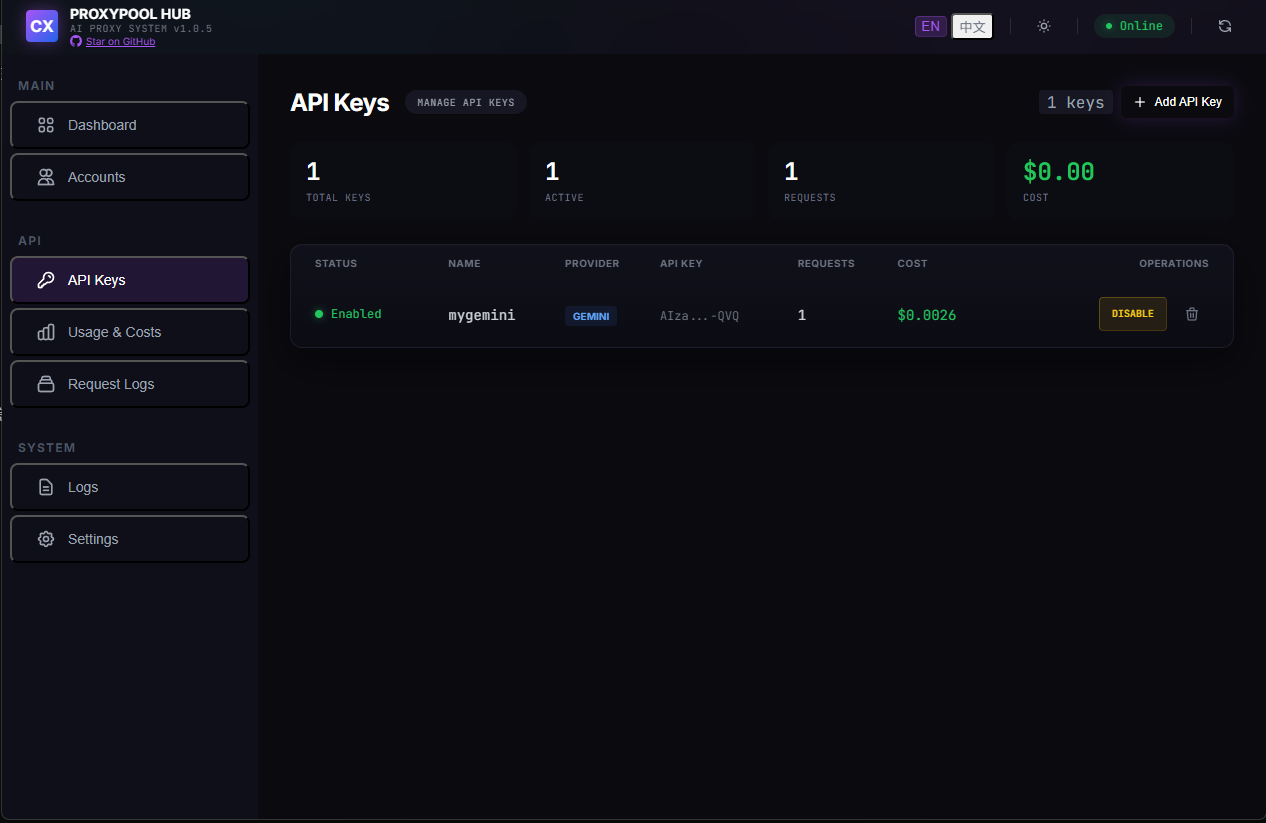
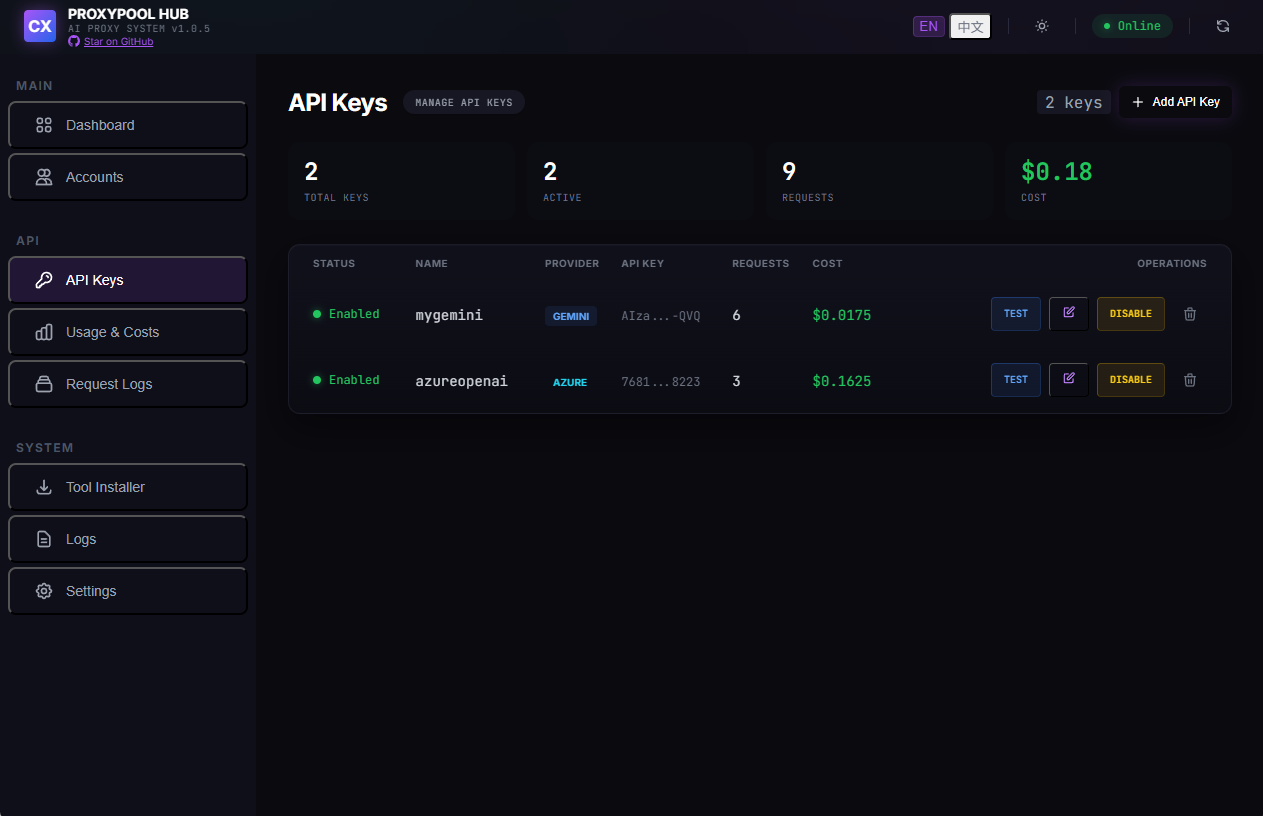
docs

diff --git a/README.md b/README.md
@@ -24,7 +24,8 @@
 ### Account & Key Management
 - **ChatGPT Account Pool** — OAuth login, multi-account rotation (sticky / round-robin / random), auto token refresh
 - **Claude Account Pool** — OAuth PKCE login, token refresh with source writeback to Claude Code credentials
-- **API Key Pool** — Support for OpenAI, Azure OpenAI, Anthropic, Google Gemini, Vertex AI keys with automatic failover
+- **API Key Pool** — Support for OpenAI, Azure OpenAI, Anthropic, Google Gemini, Vertex AI, MiniMax, Moonshot, ZhipuAI keys with automatic failover and load balancing
+- **Key Validation** — One-click connectivity test for each API key
 - **Smart Token Refresh** — Only refreshes when tokens are about to expire (< 5 min), syncs back to source CLI tools
 
 ### Free Model Routing
@@ -38,6 +39,8 @@
 
 ### Web Dashboard
 - **One-click CLI Configuration** — Configure Claude Code, Codex CLI, Gemini CLI, OpenClaw with a single button
+- **One-click Tool Installer** — Detect and install Node.js, Claude Code, Codex CLI, Gemini CLI, OpenClaw from the dashboard — auto-detects OS, installs Node.js first, then uses npm for all CLI tools
+- **API Key Test & Edit** — Test API key connectivity with one click, edit key details including provider-specific fields (Azure deployment name/API version, Vertex project ID/location)
 - **Account Management UI** — Add, remove, enable/disable, switch accounts visually
 - **Model Mapping** — Customize which upstream model each provider resolves to
 - **API Gateway** — Expose your proxy to external apps via API keys with usage tracking

diff --git a/README_CN.md b/README_CN.md
@@ -24,7 +24,8 @@
 ### 账户与密钥管理
 - **ChatGPT 账户池** — OAuth 登录、多账户轮换（固定/轮询/随机）、自动 token 刷新
 - **Claude 账户池** — OAuth PKCE 登录、token 刷新后自动回写至 Claude Code 凭证文件
-- **API Key 池** — 支持 OpenAI、Azure OpenAI、Anthropic、Google Gemini、Vertex AI 密钥，自动故障转移
+- **API Key 池** — 支持 OpenAI、Azure OpenAI、Anthropic、Google Gemini、Vertex AI、MiniMax、Moonshot、ZhipuAI 密钥，自动故障转移与负载均衡
+- **密钥验证** — 一键测试每个 API Key 的连通性
 - **智能 Token 刷新** — 仅在 token 即将过期时（< 5 分钟）才刷新，刷新后同步回源 CLI 工具
 
 ### 免费模型路由
@@ -38,6 +39,8 @@
 
 ### Web 仪表盘
 - **一键 CLI 配置** — 一个按钮配置 Claude Code、Codex CLI、Gemini CLI、OpenClaw
+- **一键工具安装** — 从仪表盘检测并安装 Node.js、Claude Code、Codex CLI、Gemini CLI、OpenClaw —— 自动识别操作系统，先安装 Node.js，再通过 npm 安装所有 CLI 工具
+- **API Key 测试与编辑** — 一键测试 API Key 连通性，编辑密钥详情（含 Azure 部署名称/API 版本、Vertex 项目 ID/区域等特定字段）
 - **账户管理 UI** — 可视化添加、删除、启用/禁用、切换账户
 - **模型映射** — 自定义每个 provider 解析到哪个上游模型
 - **API 网关** — 通过 API Key 将代理暴露给外部应用，带用量追踪
